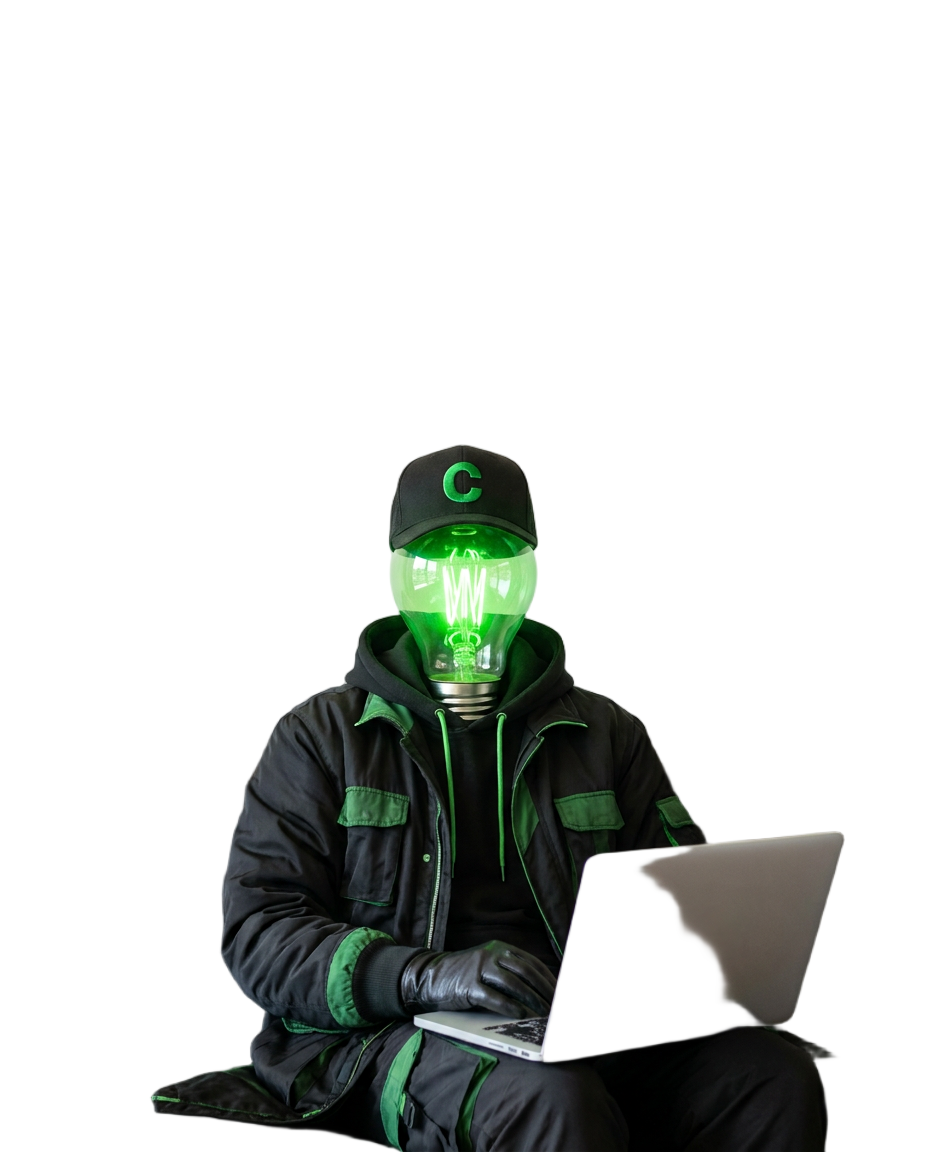
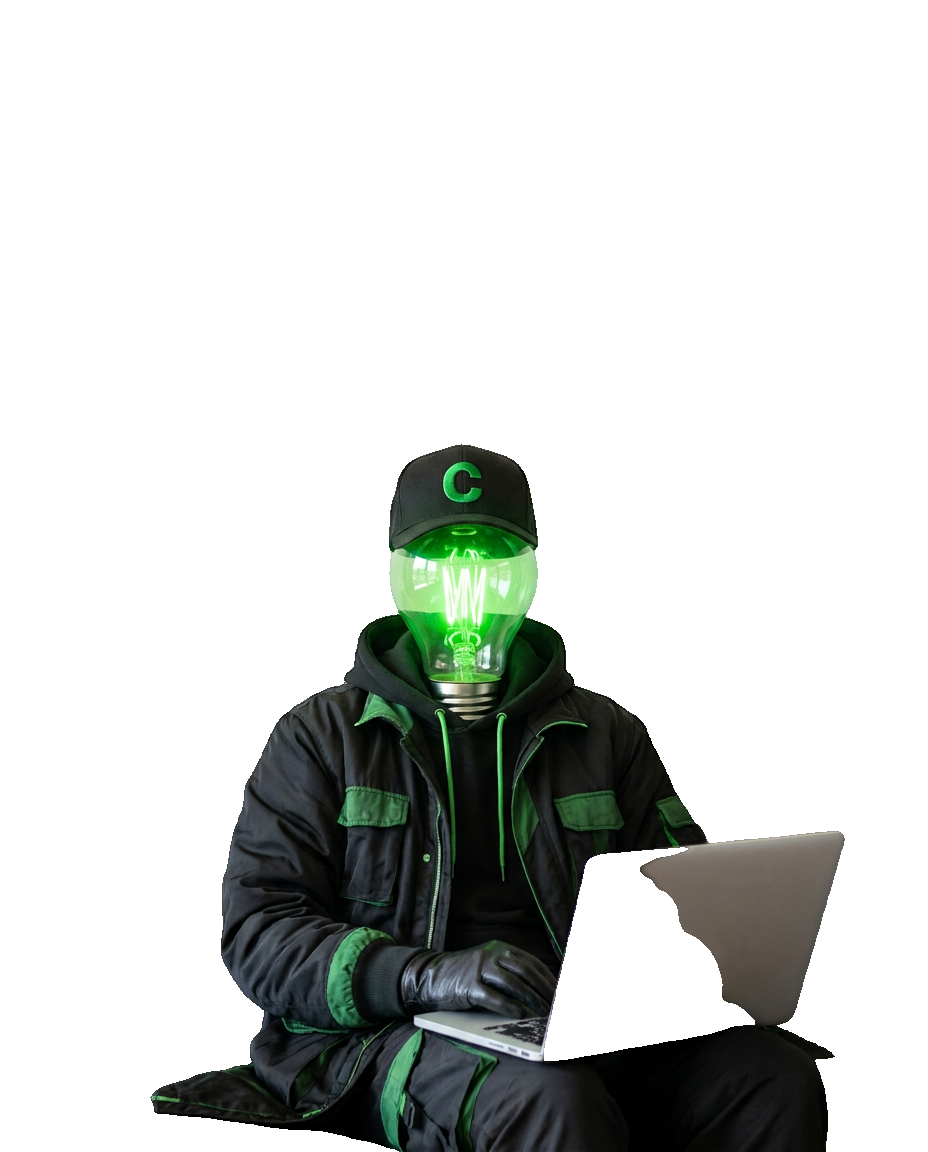
Estático 34: lâmpada sem falha, sem hashtag, arraste para o lado, arco centralizado
Claude-Session: https://claude.ai/code/session_017mkQW7vhsu584gPdJSiUVb

diff --git a/banco/tpl-estatico/layout-34.html b/banco/tpl-estatico/layout-34.html
@@ -15,12 +15,11 @@ body{margin:0}#s{width:1080px;height:1350px;position:relative;overflow:hidden;ba
 .arr span{width:18px;height:18px;border-radius:50%;background:#5a321a;color:#fff;font:700 11px/18px P7;text-align:center;letter-spacing:0}
 </style></head><body><div id=s>
 <img class=bg src="c34.png">
-<div class=g style="left:112px">SIM</div><div class=g style="left:720px">FIZ</div>
+<div class=g style="left:112px">SIM</div><div class=g style="left:690px">FIZ</div>
 <img class=bg src="c34-cut.png" style="clip-path:inset(0 0 calc(100% - 1005px) 0)">
-<div class=g style="left:418px;top:240px;font-size:330px">,</div>
-<svg style="position:absolute;left:0;top:0" width=1080 height=1350><path id=arc d="M425,365 Q575,245 725,350" fill=none /><text font-family=D font-size=58 fill="#6e3f22"><textPath href="#arc" startOffset="50%" text-anchor="middle">fui eu que</textPath></text></svg>
+<svg style="position:absolute;left:0;top:0" width=1080 height=1350><path id=arc d="M455,345 Q571,265 687,345" fill=none /><text font-family=D font-size=50 fill="#6e3f22"><textPath href="#arc" startOffset="50%" text-anchor="middle">fui eu que</textPath></text></svg>
 <div class=pill><img src="../marcas/central-do-marketing/logo-central-pequena.png"><div><b>Central do Marketing</b><i>@centraldomarketing</i></div></div>
-<div class=hash>#DesignDe<b>Post</b></div>
+
 <div class=ver>Versão post <b>estático</b></div>
-<div class=arr><span>›</span>ARRASTE</div>
+<div class=arr><span>›</span>ARRASTE PARA O LADO</div>
 </div></body></html>
